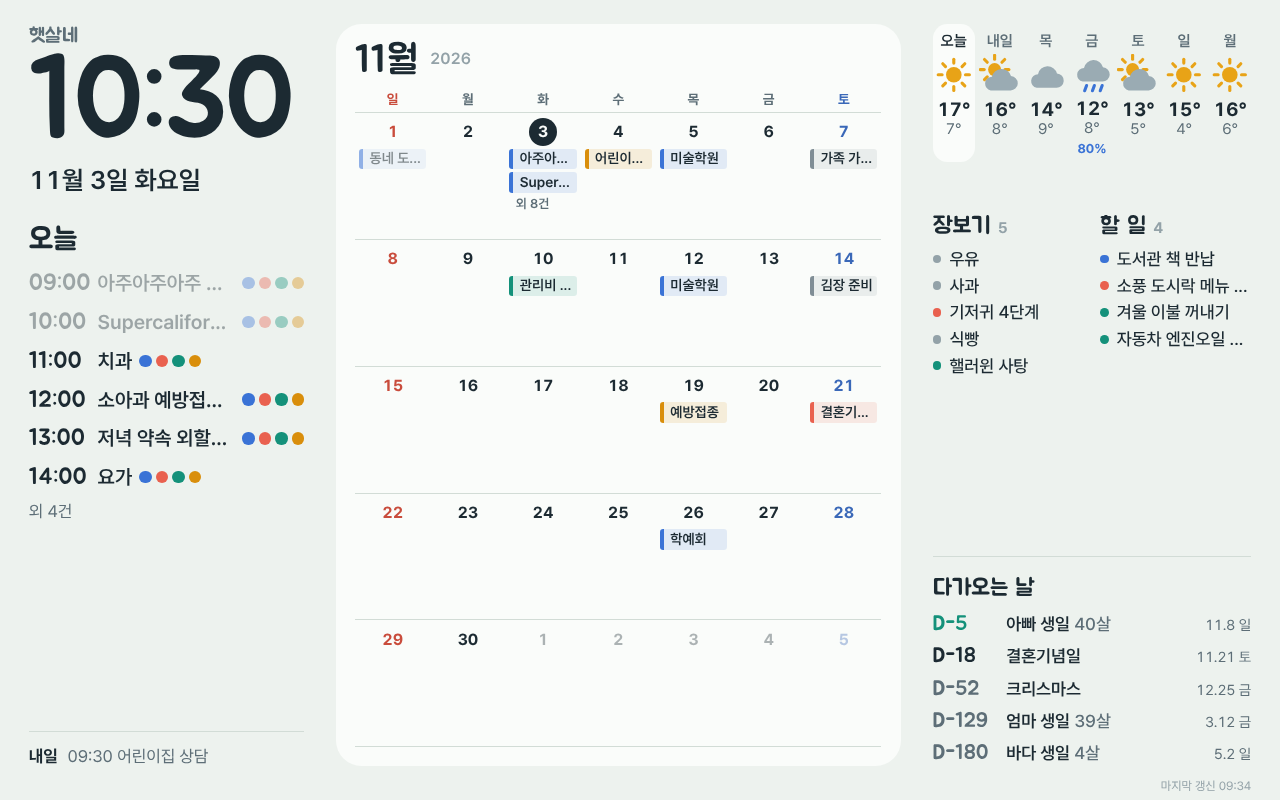
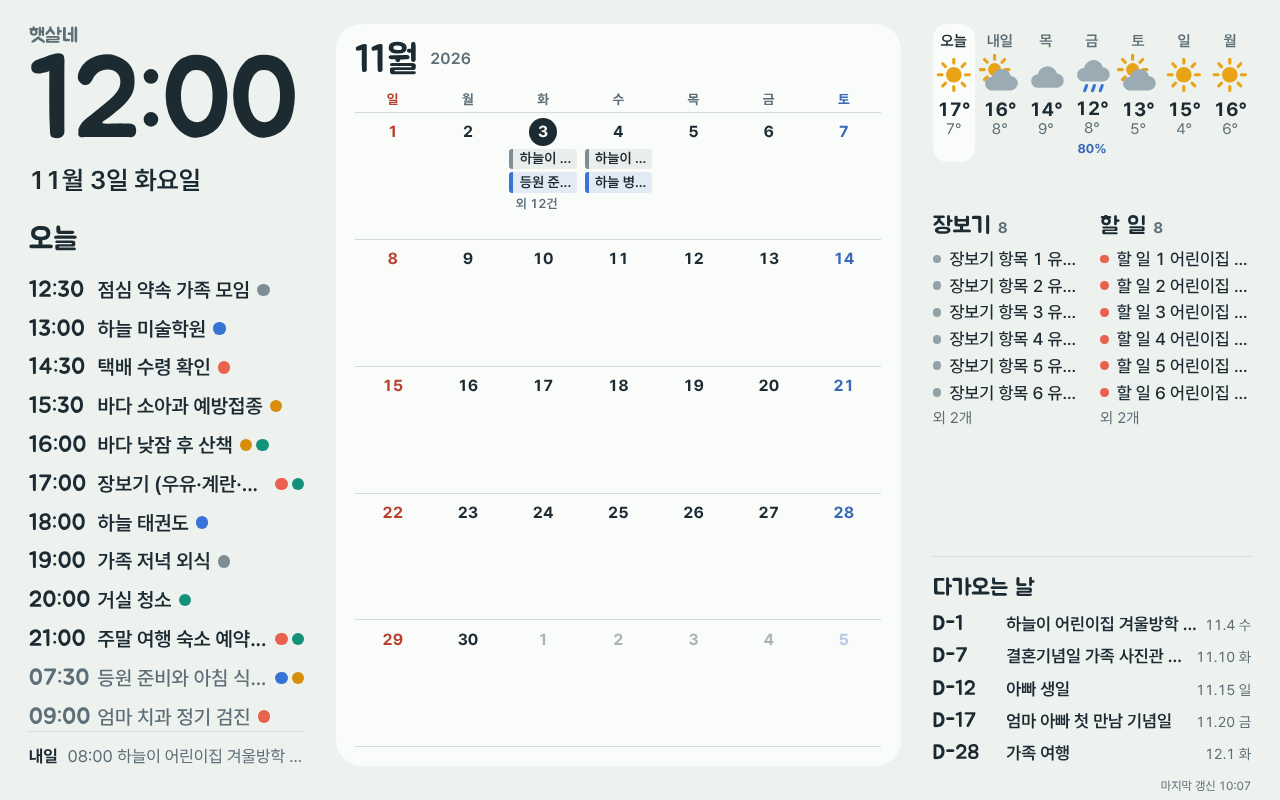
스트레스 픽스처(stress-wiki)와 e2e, 1024x600 캡처 추가 (#14 #15)
Claude-Session: https://claude.ai/code/session_01LqKqzzQUCNsU7pVB69hNTG

diff --git a/apps/dashboard/lib/stress-fixture.test.ts b/apps/dashboard/lib/stress-fixture.test.ts
@@ -1,0 +1,16 @@
+import { FsWikiRepository } from "@hsh/core/node";
+import { join } from "node:path";
+import { describe, expect, it } from "vitest";
+
+// fixtures/stress-wiki가 e2e가 기대하는 모양(80자 제목, 하루 14건)을 유지하는지: 형식이 깨져 조용히 사라지는 줄이 없게.
+describe("stress-wiki 픽스처", () => {
+  it("경고 없이 읽히고, 80자 제목과 오늘 14건이 있다", async () => {
+    const repo = new FsWikiRepository({ root: join(import.meta.dirname, "../../../fixtures/stress-wiki"), readOnly: true });
+    const s = await repo.read();
+    expect(s.warnings).toEqual([]);
+    expect(s.events.filter((e) => e.date === "2026-11-03")).toHaveLength(14);
+    expect(Math.max(...s.events.map((e) => e.title.length))).toBe(80);
+    expect(s.anniversaries.some((a) => a.title.length === 80)).toBe(true);
+    expect(s.tasks.filter((t) => t.list === "shopping")).toHaveLength(8);
+  });
+});

diff --git a/fixtures/stress-wiki/events/2026-11.md b/fixtures/stress-wiki/events/2026-11.md
@@ -1,0 +1,17 @@
+<!-- 스트레스 픽스처: 긴 제목·하루 14건 -->
+- [ ] 2026-11-03 종일 하늘이 어린이집 겨울방학 맞이 가족 현장체험학습 및 부모님 참관 수업 안내 설명회 참석 후 단체 사진 촬영까지 이어지는 긴 하루 일정입니다 끝끝 @family #evt-s001
+- [ ] 2026-11-03 07:30-08:30 등원 준비와 아침 식사 후 어린이집 가방 챙기기 @haneul @bada #evt-s002
+- [ ] 2026-11-03 09:00 엄마 치과 정기 검진 @mom #evt-s003
+- [ ] 2026-11-03 11:00-12:00 아빠 팀 회의 @dad #evt-s004
+- [ ] 2026-11-03 13:00 하늘 미술학원 @haneul #evt-s005
+- [ ] 2026-11-03 15:30-16:30 바다 소아과 예방접종 @bada #evt-s006
+- [ ] 2026-11-03 17:00 장보기 (우유·계란·식빵·기저귀) @mom @dad #evt-s007
+- [ ] 2026-11-03 19:00 가족 저녁 외식 @family #evt-s008
+- [ ] 2026-11-03 21:00-22:00 주말 여행 숙소 예약 확인 @mom @dad #evt-s009
+- [ ] 2026-11-03 12:30 점심 약속 가족 모임 @family #evt-s012
+- [ ] 2026-11-03 14:30-15:00 택배 수령 확인 @mom #evt-s013
+- [ ] 2026-11-03 16:00 바다 낮잠 후 산책 @bada @dad #evt-s014
+- [ ] 2026-11-03 18:00 하늘 태권도 @haneul #evt-s015
+- [ ] 2026-11-03 20:00 거실 청소 @dad #evt-s016
+- [ ] 2026-11-04 08:00 하늘이 어린이집 겨울방학 맞이 가족 현장체험학습 및 부모님 참관 수업 안내 설명회 참석 후 단체 사진 촬영까지 이어지는 긴 하루 일정입니다 끝끝 @family #evt-s010
+- [ ] 2026-11-04 10:00 하늘 병원 @haneul #evt-s011

diff --git a/fixtures/stress-wiki/tasks.md b/fixtures/stress-wiki/tasks.md
@@ -1,0 +1,19 @@
+## 장보기
+- [ ] 장보기 항목 1 유기농 무항생제 계란과 우유 묶음 #task-3101
+- [ ] 장보기 항목 2 유기농 무항생제 계란과 우유 묶음 #task-3102
+- [ ] 장보기 항목 3 유기농 무항생제 계란과 우유 묶음 #task-3103
+- [ ] 장보기 항목 4 유기농 무항생제 계란과 우유 묶음 #task-3104
+- [ ] 장보기 항목 5 유기농 무항생제 계란과 우유 묶음 #task-3105
+- [ ] 장보기 항목 6 유기농 무항생제 계란과 우유 묶음 #task-3106
+- [ ] 장보기 항목 7 유기농 무항생제 계란과 우유 묶음 #task-3107
+- [ ] 장보기 항목 8 유기농 무항생제 계란과 우유 묶음 #task-3108
+
+## 할 일
+- [ ] 할 일 1 어린이집 서류와 보험 청구 서류 정리하기 @mom #task-3201
+- [ ] 할 일 2 어린이집 서류와 보험 청구 서류 정리하기 @mom #task-3202
+- [ ] 할 일 3 어린이집 서류와 보험 청구 서류 정리하기 @mom #task-3203
+- [ ] 할 일 4 어린이집 서류와 보험 청구 서류 정리하기 @mom #task-3204
+- [ ] 할 일 5 어린이집 서류와 보험 청구 서류 정리하기 @mom #task-3205
+- [ ] 할 일 6 어린이집 서류와 보험 청구 서류 정리하기 @mom #task-3206
+- [ ] 할 일 7 어린이집 서류와 보험 청구 서류 정리하기 @mom #task-3207
+- [ ] 할 일 8 어린이집 서류와 보험 청구 서류 정리하기 @mom #task-3208

diff --git a/fixtures/stress-wiki/anniversaries.md b/fixtures/stress-wiki/anniversaries.md
@@ -1,0 +1,6 @@
+- 11-04 하늘이 어린이집 겨울방학 맞이 가족 현장체험학습 및 부모님 참관 수업 안내 설명회 참석 후 단체 사진 촬영까지 이어지는 긴 하루 일정입니다 끝끝 @family
+- 11-10 결혼기념일 가족 사진관 방문 예약 일정 확인 @family
+- 11-15 아빠 생일 @family
+- 11-20 엄마 아빠 첫 만남 기념일 @family
+- 12-01 가족 여행 @family
+- 12-25 크리스마스 @family

diff --git a/fixtures/stress-wiki/README.md b/fixtures/stress-wiki/README.md
@@ -1,0 +1,5 @@
+# 스트레스 픽스처 위키
+
+화면이 깨지는 조건을 일부러 모은 위키. 개발·시안·e2e용이고 사람이 읽는 위키가 아니다.
+80자 제목(일정·기념일), 오늘(2026-11-03) 일정 14건(종일 포함), 장보기·할 일 8건씩.
+`apps/dashboard/e2e/stress.e2e.mjs`가 이 폴더를 임시 git 레포로 복사해 쓴다(원본은 수정하지 않음).

diff --git a/fixtures/stress-wiki/config.md b/fixtures/stress-wiki/config.md
@@ -1,0 +1,11 @@
+---
+familyName: 햇살네
+timezone: Asia/Seoul
+region: 서울특별시 마포구 망원동
+kmaNx: 59
+kmaNy: 127
+kmaMidLandRegId: 11B00000
+kmaMidTaRegId: 11B10101
+familyColor: gray
+setupCompletedAt: 2026-10-20T20:00:00+09:00
+---

diff --git a/fixtures/stress-wiki/members/mom.md b/fixtures/stress-wiki/members/mom.md
@@ -1,0 +1,8 @@
+---
+id: mom
+name: 엄마
+role: guardian
+birth: 1988-03-12
+color: coral
+slack: U00MOM
+---

diff --git a/fixtures/stress-wiki/members/dad.md b/fixtures/stress-wiki/members/dad.md
@@ -1,0 +1,8 @@
+---
+id: dad
+name: 아빠
+role: guardian
+birth: 1986-11-08
+color: teal
+slack: U00DAD
+---

diff --git a/fixtures/stress-wiki/members/haneul.md b/fixtures/stress-wiki/members/haneul.md
@@ -1,0 +1,7 @@
+---
+id: haneul
+name: 하늘
+role: child
+birth: 2020-08-15
+color: blue
+---

diff --git a/fixtures/stress-wiki/members/bada.md b/fixtures/stress-wiki/members/bada.md
@@ -1,0 +1,7 @@
+---
+id: bada
+name: 바다
+role: child
+birth: 2023-05-02
+color: amber
+---

diff --git a/fixtures/stress-wiki/log.md b/fixtures/stress-wiki/log.md
@@ -1,0 +1,1 @@
+# 변경 기록
